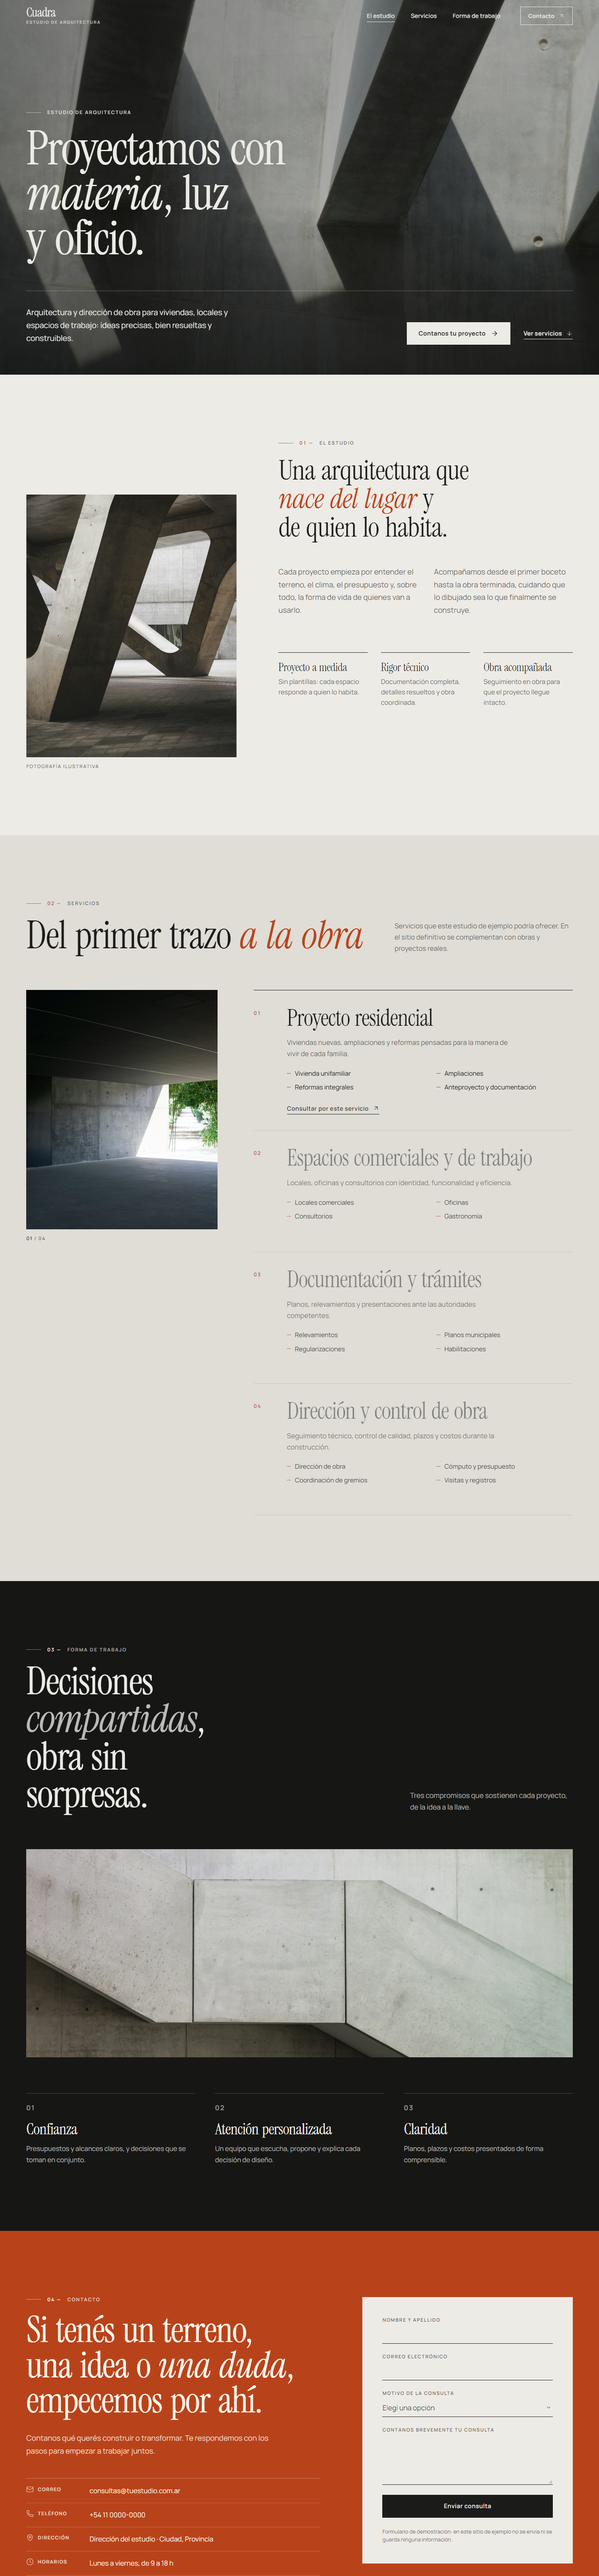
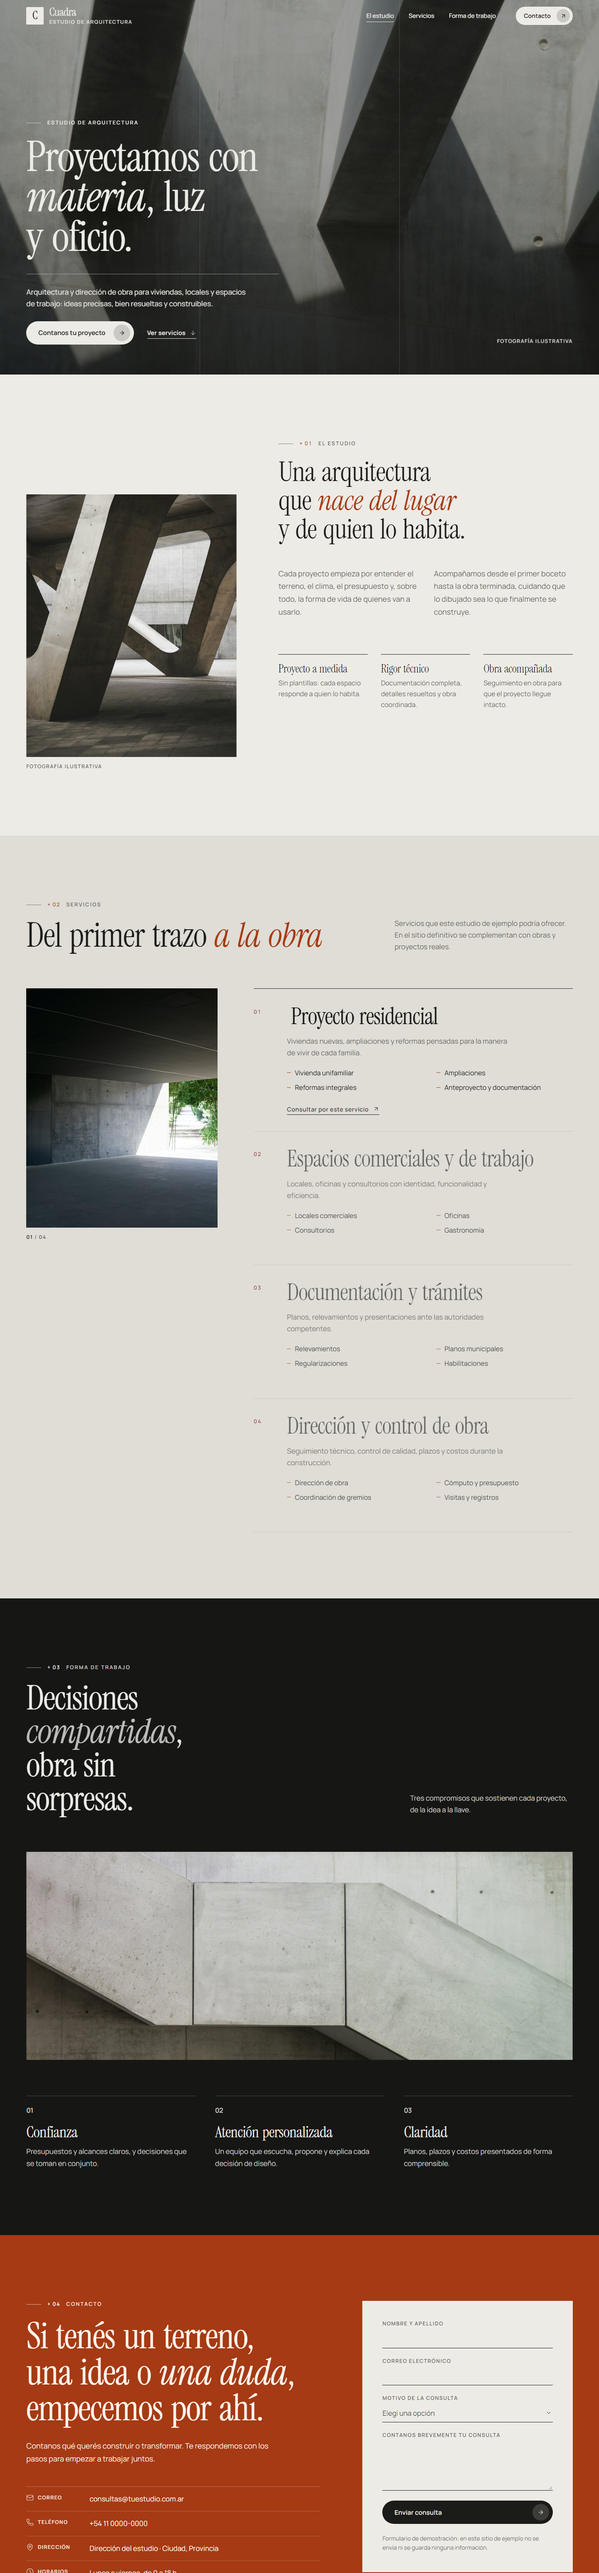
Hero A (foto a sangre) como diseño base

diff --git a/README.md b/README.md
@@ -33,7 +33,7 @@ Ejemplo para una reunión: `https://<demo>.vercel.app/?rubro=contable&nombre=Est
 La versión anterior (biblioteca y columnas, paleta bordó intenso) está guardada como la etiqueta git `v1-clasica`
 (`git checkout v1-clasica`); la rama `master` sigue en ese punto. Esta rama explora: carbón, marfil, gris piedra y
 bordó suave; fotografía de arquitectura contemporánea (travertino, hormigón, luz natural); botones y navegación en píldora.
-Hay dos heros para comparar en el jurídico: `?rubro=juridico&hero=full` (A, foto a sangre) y `&hero=editorial` (B, asimétrico).
+Se eligió el hero A (foto a sangre) como diseño base y la rama se integró en `master`; el hero editorial queda disponible como opción reutilizable. Para compararlos: `?rubro=juridico&hero=full` (A, foto a sangre) y `&hero=editorial` (B, asimétrico).
 Capturas en `screenshots/comparar/`. `npm run test:contrast` audita contraste AA y tamaño mínimo de texto.
 
 ## Configuración de cada rubro
